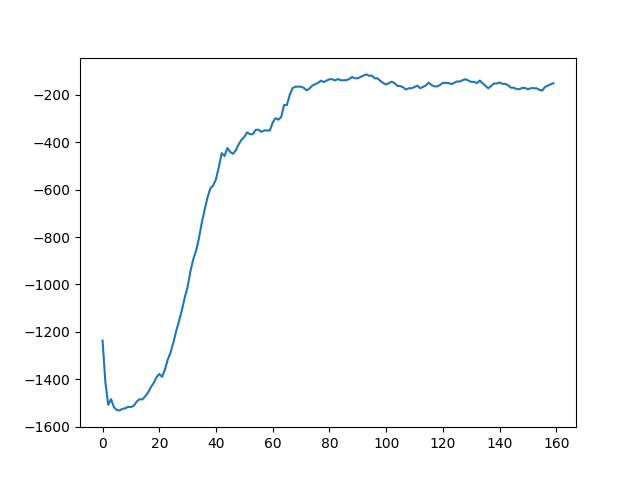
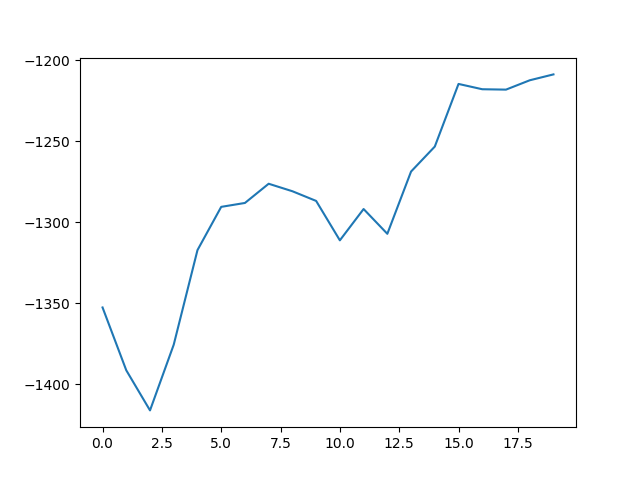
A2C TD3

diff --git a/TD3-Pendulum.py b/TD3-Pendulum.py
@@ -68,7 +68,7 @@ def train():
     # === 超参数设置 ===
     learning_rate_actor = 0.0003  # Actor 学习率，控制策略更新速度
     learning_rate_critic = 0.001  # Critic 学习率，控制 Q 值更新速度
-    discount_factor_g = 0.99  # 折扣因子 γ，用于计算未来奖励的折现，公式：Q(s,a) = r + γ * Q(s',a')
+    gamma = 0.99  # 折扣因子 γ，用于计算未来奖励的折现，公式：Q(s,a) = r + γ * Q(s',a')
     hidden_dim = 128  # 隐藏层神经元数量，决定网络容量
     max_steps_per_episode = 10000  # 每个回合的最大步数上限
     buffer_size = 100000  # 经验回放缓冲区容量
@@ -98,6 +98,7 @@ def train():
     actor_target = PolicyNet(states_dim, actions_dim, hidden_dim, action_bound).to(device)  # 目标策略网络
     actor_target.load_state_dict(actor.state_dict())  # 初始化时同步参数
 
+    #双Q网络 双target网络
     critic_1 = QValueNet(states_dim, actions_dim, hidden_dim).to(device)  # 主 Critic 网络 1
     critic_1_target = QValueNet(states_dim, actions_dim, hidden_dim).to(device)  # 目标 Critic 网络 1
     critic_1_target.load_state_dict(critic_1.state_dict())
@@ -117,38 +118,41 @@ def train():
         state = env.reset()[0]  # 重置环境，获取初始状态
         state = torch.tensor(state, dtype=torch.float32, device=device)  # 转换为张量
         rewards_one_episode = 0  # 当前回合的总奖励
-        terminated = False  # 是否终止
-        truncated = False  # 是否截断
+        is_end=False
 
         # === 收集一个回合的经验 ===
-        while not (terminated or truncated) and rewards_one_episode < 100:
-            with torch.no_grad():  # 采样时不计算梯度，节省资源
+        while not is_end and rewards_one_episode < 100:
+            with torch.no_grad(): 
                 action = actor(state).flatten()  # Actor 输出动作
                 noise = np.random.normal(0, noise_std, size=actions_dim)  # 添加高斯噪声以探索
                 action = np.clip(action.cpu().numpy() + noise, -action_bound, action_bound)  # 裁剪动作
                 action = torch.tensor(action, dtype=torch.float32, device=device)  # 转换回张量
 
             next_state, reward, terminated, truncated, _ = env.step(action.numpy())  # 执行动作
+            is_end=terminated or truncated
             rewards_one_episode += reward  # 累加奖励
 
             next_state = torch.tensor(next_state, dtype=torch.float32, device=device)  # 下一状态
             reward = torch.tensor([reward], dtype=torch.float32, device=device)  # 奖励
-            terminated = torch.tensor([terminated], dtype=torch.float32, device=device)  # 终止标志
-
-            replay_buffer.append((state, action, next_state, reward, terminated))  # 存入经验缓冲区
+            termination = torch.tensor([terminated], dtype=torch.float32, device=device)  # 终止标志
+            truncation = torch.tensor([truncated], dtype=torch.float32, device=device)  # 截断标志
+            
+            replay_buffer.append((state, action, next_state, reward, termination, truncation))  # 存入经验缓冲区
             state = next_state  # 更新当前状态
 
             # === 开始训练 ===
             if len(replay_buffer) > batch_size:  # 缓冲区足够大时开始训练
                 update_iter += 1  # 更新计数器递增
                 mini_batch = replay_buffer.sample(batch_size)  # 随机采样
-                states, actions, new_states, rewards, terminations = zip(*mini_batch)  # 解包
-
+                states, actions, new_states, rewards, terminations, truncated = zip(*mini_batch)  # 解包
+                
                 states = torch.stack(states)  # 转换为张量堆栈
                 actions = torch.stack(actions)
                 new_states = torch.stack(new_states)
                 rewards = torch.stack(rewards)
                 terminations = torch.stack(terminations)
+                truncated = torch.stack(truncated)
+                done=terminations.bool()|truncated.bool()
 
                 # === TD3 核心要素 1：目标策略平滑正则化 ===
                 # 数学公式：a' = π(s') + ε, ε ~ clip(N(0, σ), -c, c)
@@ -161,11 +165,10 @@ def train():
 
                     # === TD3 核心要素 2：双重 Q 值计算 ===
                     # 数学公式：Q_target = r + γ * min(Q1'(s', a'), Q2'(s', a'))
-                    # 说明：使用两个 Critic 网络，取最小值减少 Q 值过估计
                     target_q1 = critic_1_target(new_states, next_actions)  # Critic 1 的目标 Q 值
                     target_q2 = critic_2_target(new_states, next_actions)  # Critic 2 的目标 Q 值
                     target_q = torch.min(target_q1, target_q2)  # 取最小值
-                    q_targets = rewards + discount_factor_g * target_q * (1 - terminations)  # Bellman 方程
+                    q_targets = rewards + gamma * target_q * (1 - done.float())  # Bellman 方程
 
                 # === 更新 Critic 网络 ===
                 q1_values = critic_1(states, actions)  # 当前 Q 值估计
@@ -222,6 +225,7 @@ def train():
             torch.save(actor.state_dict(), "TD3-Pendulum_actor_net.pt")
             # torch.save(critic_1.state_dict(), "TD3-Pendulum_critic_1_net.pt")
             # torch.save(critic_2.state_dict(), "TD3-Pendulum_critic_2_net.pt")
+
 #Pendulum 坚持倒立越久，奖励越高 默认最大步数为 200
 def test():
     # === 测试函数 ===
@@ -263,5 +267,5 @@ def test():
     env.close()
 
 if __name__ == '__main__':
-    #train(isLoad=False)  # 默认运行训练
+    train()  # 默认运行训练
     test()  # 注释掉测试，训练后可手动取消注释运行

diff --git a/A2C-cartpole.py b/A2C-cartpole.py
@@ -46,7 +46,7 @@ def train(enable_double_dqn=True, render=False):
     # 超参数设置
     learning_rate_actor = 0.001  # Actor 网络学习率，控制策略更新速度
     learning_rate_critic = 0.01  # Critic 网络学习率，控制价值估计更新速度
-    discount_factor_g = 0.98  # 折扣因子 gamma，用于计算未来奖励的折现
+    gamma = 0.98  # 折扣因子 gamma，用于计算未来奖励的折现
     target_update_freq = 10  # 目标网络更新频率（仅在启用 Double DQN 时有效）
     hidden_dim = 128  # 隐藏层神经元数量，决定网络容量
     max_steps_per_episode = 1000  # 每个回合的最大步数上限
@@ -79,7 +79,7 @@ def train(enable_double_dqn=True, render=False):
         state = env.reset()[0]  # 重置环境，获取初始状态
         state = torch.tensor(state, dtype=torch.float, device=device)
         rewards_one_episode = 0  # 当前回合的总奖励
-        transition_dict = {"states": [], "actions": [], "next_states": [], "rewards": [], "terminated": []}
+        transition_dict = {"states": [], "actions": [], "next_states": [], "rewards": [], "done": []}
 
         # 收集一个回合的轨迹数据
         with torch.no_grad():  # 采样时不计算梯度，节省计算资源
@@ -95,13 +95,13 @@ def train(enable_double_dqn=True, render=False):
                 # 将数据转换为张量并存储到轨迹中
                 next_state = torch.tensor(next_state, dtype=torch.float, device=device)
                 reward = torch.tensor(reward, dtype=torch.float, device=device)
-                terminated = torch.tensor(terminated, dtype=torch.float, device=device)
+                done = torch.tensor(terminated or truncated, dtype=torch.float, device=device)
 
                 transition_dict["states"].append(state)
                 transition_dict["actions"].append(action)
                 transition_dict["rewards"].append(reward)
                 transition_dict["next_states"].append(next_state)
-                transition_dict["terminated"].append(terminated)
+                transition_dict["done"].append(done)
 
                 state = next_state  # 更新状态
                 if terminated or truncated:  # 回合结束条件
@@ -115,38 +115,37 @@ def train(enable_double_dqn=True, render=False):
         actions = torch.stack(transition_dict["actions"])
         rewards = torch.stack(transition_dict["rewards"])
         next_states = torch.stack(transition_dict["next_states"])
-        terminated = torch.stack(transition_dict["terminated"])
+        done = torch.stack(transition_dict["done"])
 
         # 计算时序差分目标（TD Target）和优势估计
         with torch.no_grad():
             # 使用目标网络计算下一状态的价值 V(s『)
             next_values = target_critic_net(next_states).squeeze()
             # TD 目标：r + γ * V(s』) * (1 - done)
-            td_target = rewards + discount_factor_g * next_values * (1 - terminated)
+            td_target = rewards + gamma * next_values * (1 - done)
         # 当前状态的价值估计 V(s)
         values = critic_net(states).squeeze()
         # 优势函数 A(s, a) = TD_target - V(s)
         advantages = td_target - values
 
-        # 计算 Actor 损失（策略梯度）
+        # Actor 更新
+        #随机策略
         # log π(a|s)：对策略网络输出的动作概率取对数
         log_probs = torch.log(actor_net(states).gather(1, actions.unsqueeze(1))).squeeze()
         # Actor 损失：-log π(a|s) * A(s, a)，负号表示最大化目标
         actor_loss = torch.mean(-log_probs * advantages.detach())
+        actor_optimizer.zero_grad()  # 清空 Actor 梯度
+        actor_loss.backward()  # 计算 Actor 损失的梯度
+        actor_optimizer.step()  # 更新 Actor 参数
 
-        # 计算 Critic 损失
+        # Critic 更新
         # Critic 的目标是使 V(s) 逼近 TD 目标
         critic_loss = critic_loss_fn(values, td_target.detach())
-
-        # 更新网络参数
-        actor_optimizer.zero_grad()  # 清空 Actor 梯度
         critic_optimizer.zero_grad()  # 清空 Critic 梯度
-        actor_loss.backward()  # 计算 Actor 损失的梯度
         critic_loss.backward()  # 计算 Critic 损失的梯度
-        actor_optimizer.step()  # 更新 Actor 参数
         critic_optimizer.step()  # 更新 Critic 参数
 
-        # 更新目标网络（软更新或硬更新）
+        # 更新目标网络
         if episodes_iter % target_update_freq == 0:
             target_critic_net.load_state_dict(critic_net.state_dict())  # 硬更新目标网络
 
@@ -163,7 +162,7 @@ def train(enable_double_dqn=True, render=False):
             plt.savefig("A2C-cartpole_train.png")
             plt.close()
 
-            # 保存模型参数
+            # 保存模型动作头
             torch.save(actor_net.state_dict(), "A2C-cartpole_actor_net.pt")
             #torch.save(critic_net.state_dict(), "A2C-cartpole_critic_net.pt")
 

diff --git a/DDPG-Pendulum.py b/DDPG-Pendulum.py
@@ -124,6 +124,7 @@ def train():
                 action = torch.tensor(action, dtype=torch.float32, device=device)  # 转换回张量
 
             next_state, reward, terminated, truncated, _ = env.step(action.numpy())
+            done = terminated or truncated
             rewards_one_episode += reward
 
             # 将数据转换为张量并存储到轨迹中
@@ -131,7 +132,6 @@ def train():
             reward = torch.tensor([reward], dtype=torch.float32, device=device).detach()
             terminated = torch.tensor([terminated], dtype=torch.float32, device=device).detach()
             truncated = torch.tensor([truncated], dtype=torch.float32, device=device).detach()
-            done = terminated.bool() | truncated.bool()
 
             replay_buffer.append((state, action.detach(), next_state, reward, terminated, truncated))
 
@@ -153,7 +153,7 @@ def train():
                 with torch.no_grad():
                     next_actions = actor_target(new_states)
                     next_Q = critic_target(new_states, next_actions)
-                    target_Q = rewards + gamma * next_Q * (1 - done.float())  # Bellman 方程
+                    target_Q = rewards + gamma * next_Q * (1 - done)  # Bellman 方程
                 
                 # 更新 Critic
                 q_values = critic(states, actions)
@@ -177,7 +177,7 @@ def train():
                 for target_param, param in zip(critic_target.parameters(), critic.parameters()):
                     target_param.data.copy_(tau * param.data + (1 - tau) * target_param.data)
 
-            if done.item():
+            if done:
                 break
         rewards_all_episodes.append(rewards_one_episode)
         episodes_iter += 1

diff --git a/TD3-Pendulum.md b/TD3-Pendulum.md
@@ -1,0 +1,40 @@
+# TD3
+
+每步更新
+## 1.步进
+
+确定性策略+探索性噪声
+
+$a_t = \pi(s_t)+N(0, noise_std²)$
+
+## 2.从历史经验中采样单个批次
+
+## 3.计算目标Q值
+
+$Q_{target1}(s_{t+1}, a_{target\, t+1}')=\pi(a_{target1\; t+1}'|s_{t+1})$
+
+$Q_{target2}(s_{t+1}, a_{target\, t+1}')=\pi(a_{target2\; t+1}'|s_{t+1})$
+
+$Q_{target}(s_t, a_t) = r_t + γ * min(Q_{target1}(s_{t+1}, a_{target\, t+1}), Q_{target2}(s_{t+1}, a_{target\, t+1}))$ * (1 - done_t)$
+
+## 4.更新Critic（Q网络）
+
+$Q_{Loss_1} =\frac{1}{N} \sum_{t=1}^{N} (Q_{target}(s_t, a_t) - Q_1(s_t, a_t))^2$
+
+$Q_{Loss_2} =\frac{1}{N} \sum_{t=1}^{N} (Q_{target}(s_t, a_t) - Q_2(s_t, a_t))^2$
+
+## 5.延迟更新Actor（策略网络）（每隔几步更新一次）
+>$Q_1$和$Q_2$网络随便取一个
+
+$a_{Loss} = -\mathbb{E}_{N}(Q_1(s_t, \pi(s_t)))$
+
+## 6.更新目标网络
+
+$\theta^-_{actor} =\tau \theta_{actor} +(1-\tau)\theta^-_{actor}$
+
+$\theta^-_{critic_1} =\tau \theta_{critic_1} +(1-\tau)\theta^-_{critic_1}$
+
+$\theta^-_{critic_2} =\tau \theta_{critic_2} +(1-\tau)\theta^-_{critic_2}$
+
+
+

diff --git a/A2C-cartpole.md b/A2C-cartpole.md
@@ -1,0 +1,27 @@
+# A2C
+
+## 1.等待一个episode结束
+
+## 2.计算时序差分目标（TD Target）和优势估计
+
+$Q_{target\; t+1}'(s_{t+1})$
+
+$y_t = r_t + \gamma*(1-done_t) * Q_{target\; t+1}'(s_{t+1})$
+
+$A_t = y_t - Q_{t}(s_t)$
+
+## 3.Actor网络更新
+
+$a_{Loss} = -\sum_{N} log π(a|s) * A_t$
+
+## 4.Critic网络更新
+
+$Critic_{Loss} = MSE (y_t\; ,Q_{t}(s_t))$
+
+## 5.延迟更新目标网络(每隔几步更新一次)
+
+$\theta^-_{target} = \theta_{current}$
+
+
+
+